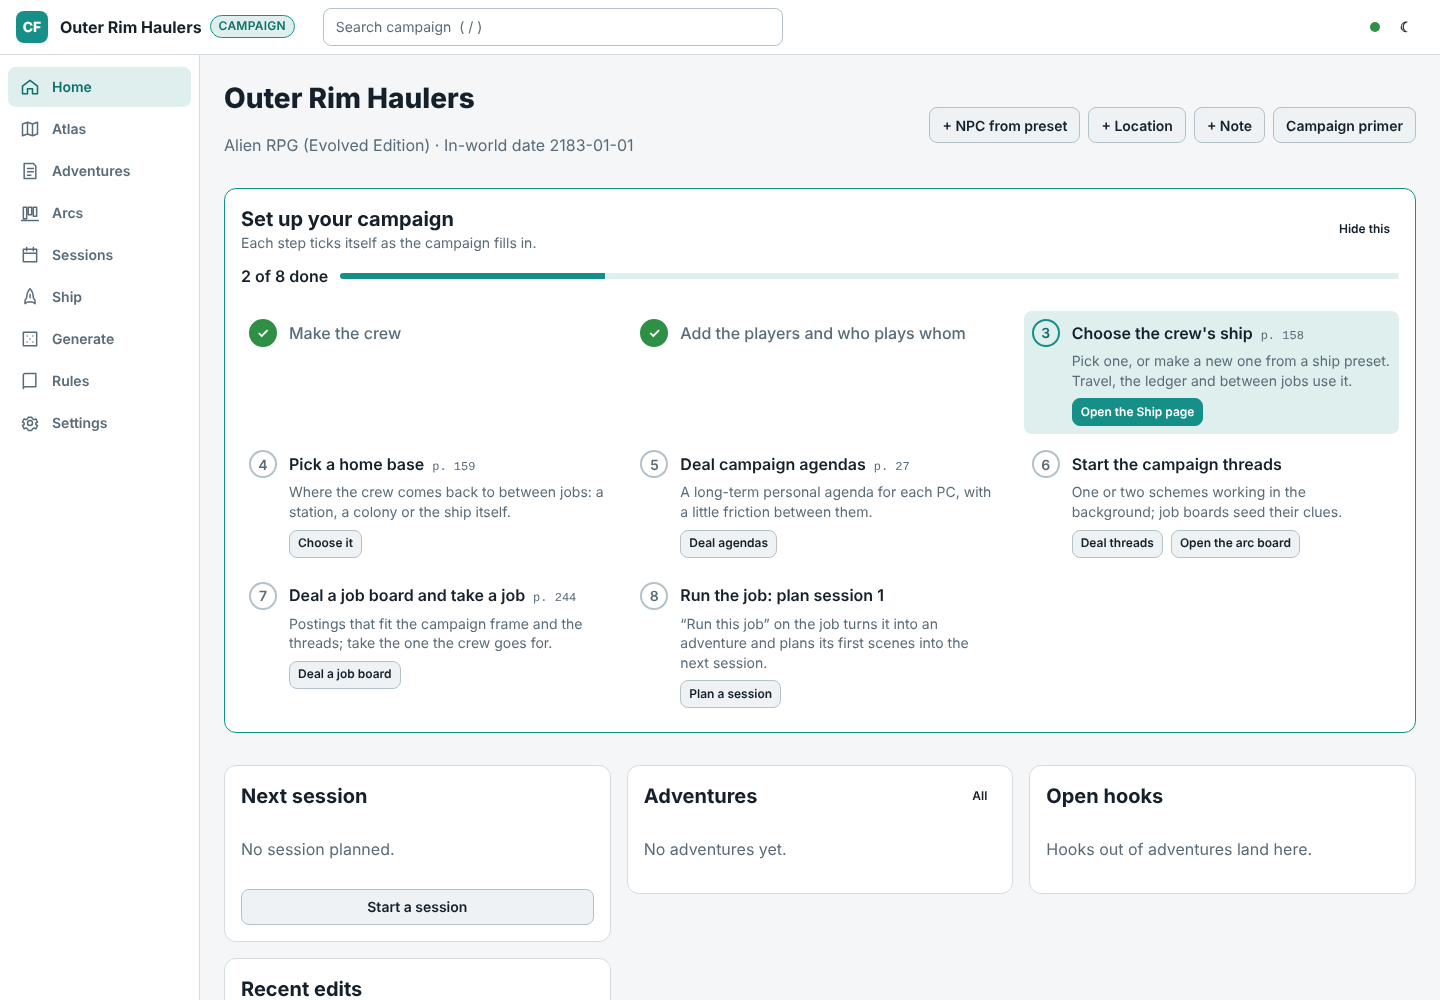
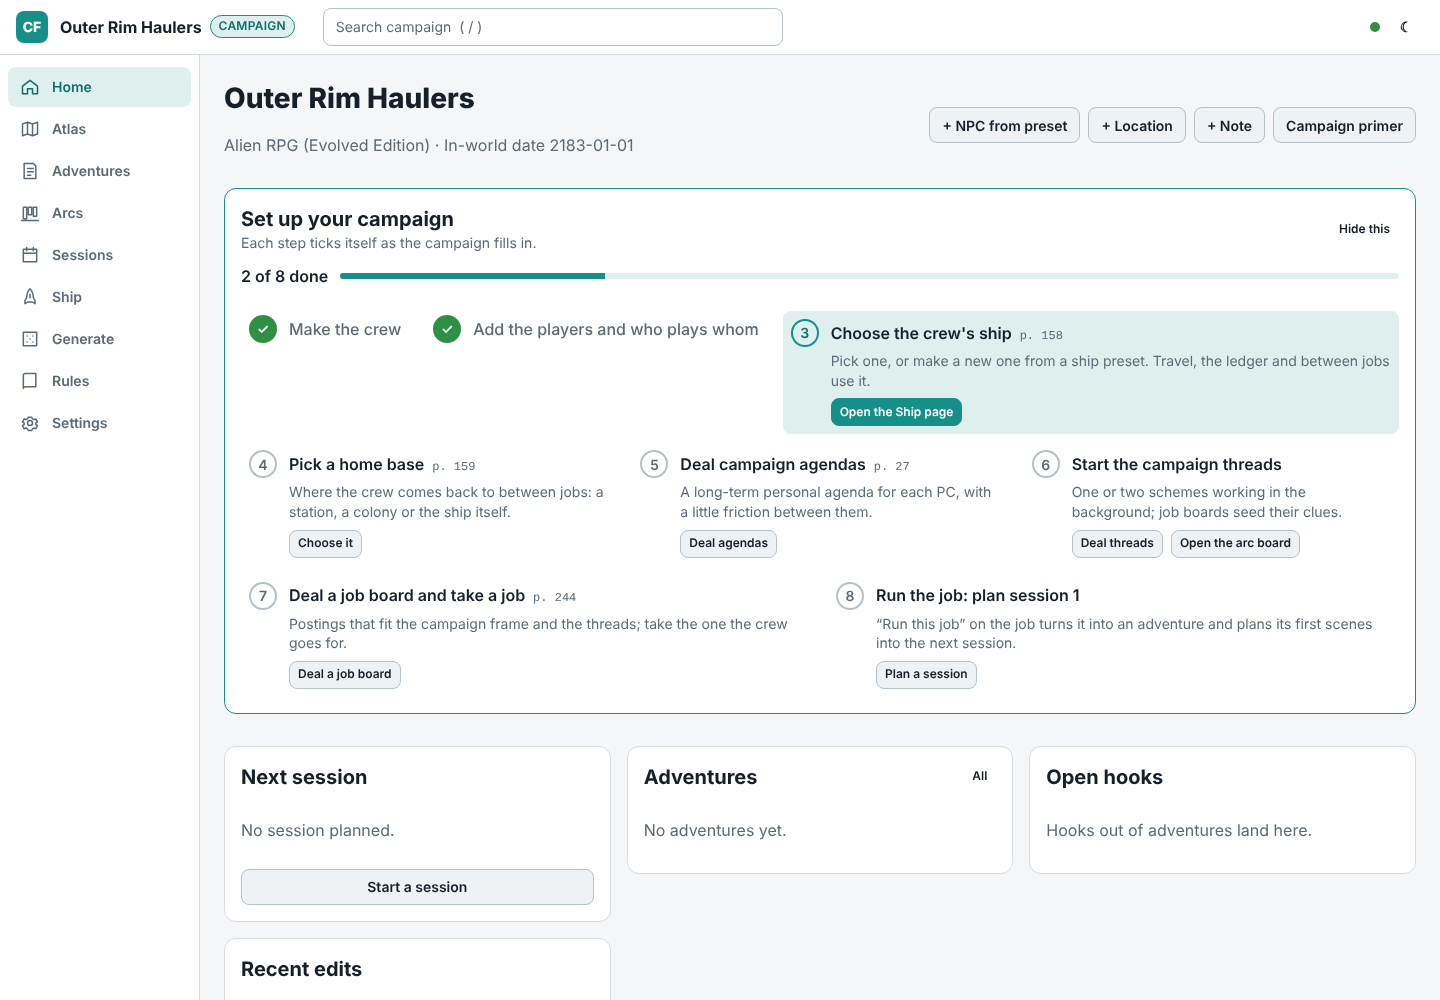
Setup guide: done steps shrink to a one-line tick instead of holding a tall row open
Claude-Session: https://claude.ai/code/session_01PjoAoT19ZxbEizz2Vq94tE

diff --git a/apps/web/src/features/home/setup.css b/apps/web/src/features/home/setup.css
@@ -29,9 +29,20 @@
   list-style: none;
   margin: 0;
   padding: 0;
-  display: grid;
-  grid-template-columns: repeat(auto-fill, minmax(min(100%, 340px), 1fr));
+  /* open steps are cards three to a row; done steps shrink to a one-line tick, so they never hold a tall row open */
+  display: flex;
+  flex-wrap: wrap;
+  align-items: flex-start;
   gap: var(--cf-space-2) var(--cf-space-4);
+}
+.setup-guide__steps > .setup-step {
+  flex: 1 1 calc((100% - 2 * var(--cf-space-4)) / 3);
+  min-width: min(100%, 300px);
+}
+.setup-guide__steps > .setup-step.is-done {
+  flex: 0 0 auto;
+  min-width: 0;
+  padding-block: var(--cf-space-1);
 }
 .setup-step {
   display: flex;
